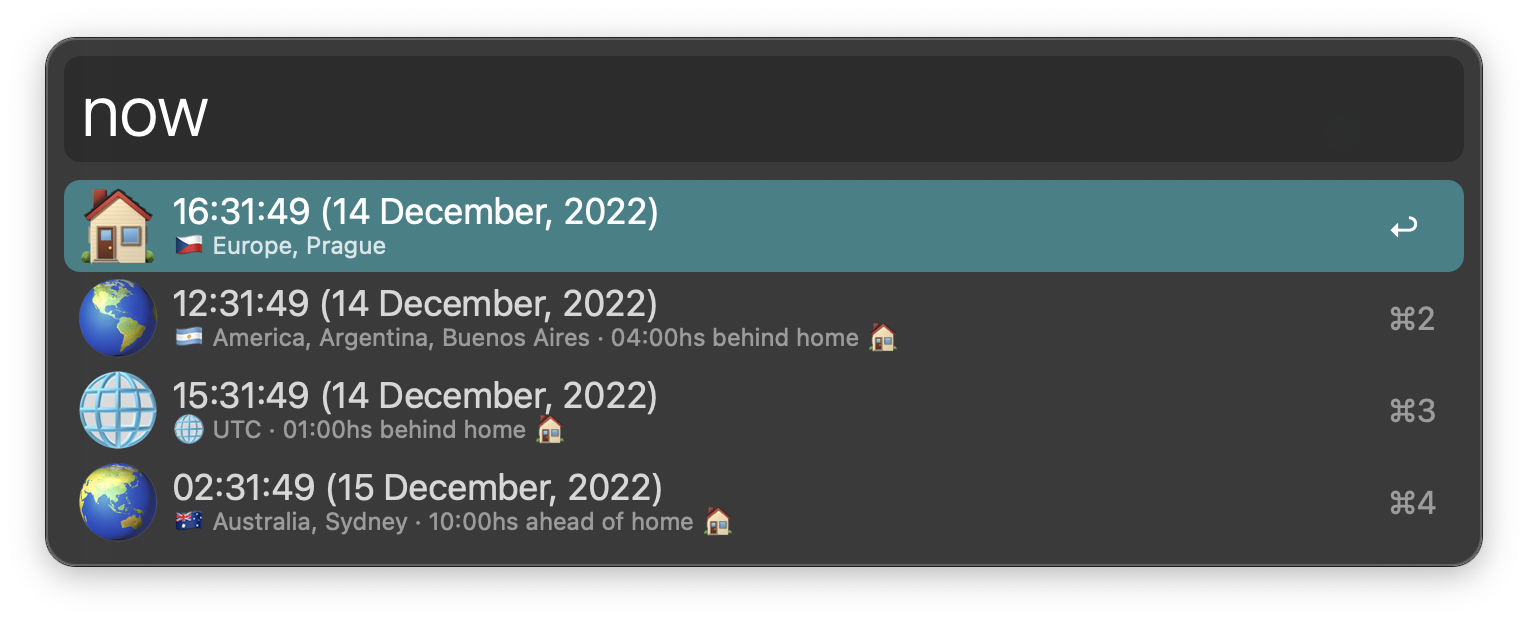
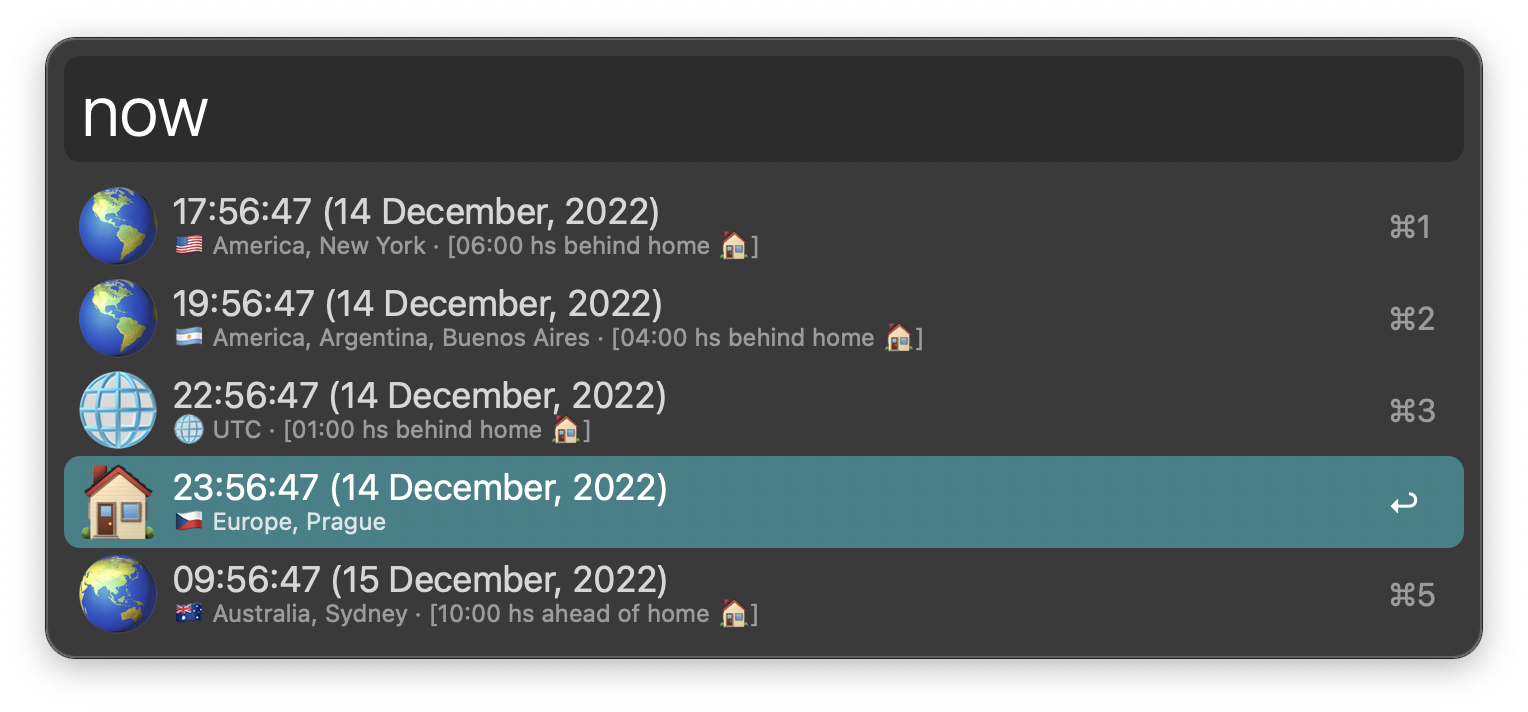
Sort by time

diff --git a/src/main.py b/src/main.py
@@ -1,5 +1,6 @@
 import os
 import sys
+from uuid import uuid4
 from datetime import datetime
 
 import pytz as tz
@@ -24,15 +25,16 @@ def main(workflow):
         )
     )
 
-    timezones = map(
-        lambda item: item[0][3:].replace("__", "/"),
-        filter(
-            lambda item: item[0].startswith("TZ_")
-            and item[1] == "1"
-            and item[0] != home,
-            workflow.env.items(),
-        ),
+    timezones = set(
+        map(
+            lambda item: item[0][3:].replace("__", "/"),
+            filter(
+                lambda item: item[0].startswith("TZ_") and item[1] == "1",
+                workflow.env.items(),
+            ),
+        )
     )
+    timezones.add(home_tz)
 
     timezones = {
         timezone: datetime.utcnow()
@@ -41,14 +43,9 @@ def main(workflow):
         for timezone in timezones
     }
 
-    timezones = [(home_tz, home_now)] + list(
-        sorted(
-            timezones.items(),
-            key=lambda item: item[1].isoformat(),
-        )
-    )
-
-    for timezone, now in timezones:
+    for timezone, now in sorted(
+        timezones.items(), key=lambda pair: pair[1].isoformat()
+    ):
         if timezone == home_tz:
             icon = "img/icons/home.png"
         elif timezone == "UTC":
@@ -77,7 +74,7 @@ def main(workflow):
                 seconds = 24 * 60 * 60 - home_offset.seconds + 1
                 text = "ahead of"
 
-            home_offset_str = "· {hours:02}:{minutes:02}hs {text} home 🏠".format(
+            home_offset_str = "· [{hours:02}:{minutes:02} hs {text} home 🏠]".format(
                 hours=seconds // 3600,
                 minutes=(seconds % 3600) // 60,
                 text=text,
@@ -96,7 +93,7 @@ def main(workflow):
             arg=now.isoformat(),
             copytext=now.isoformat(),
             valid=True,
-            uid=timezone,
+            uid=str(uuid4()),
         ).set_icon_file(
             path=icon,
         )
